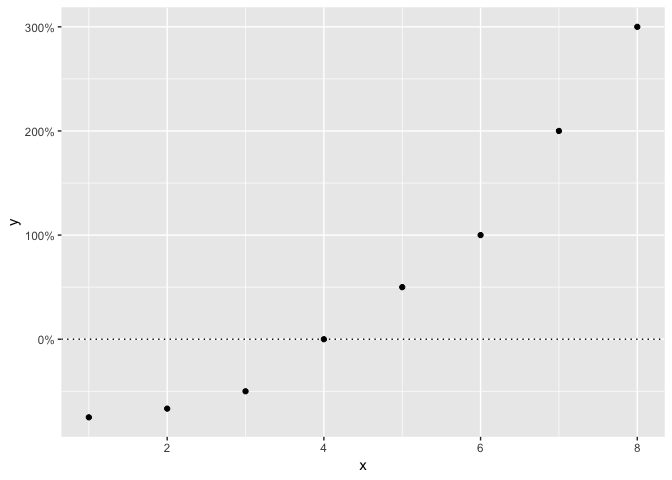
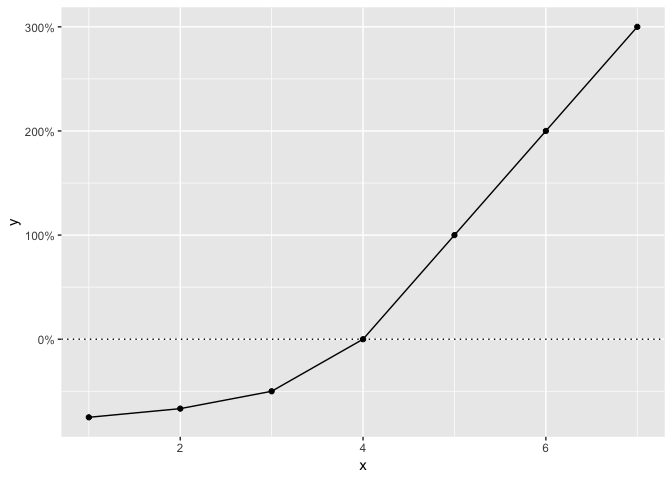
plots

diff --git a/README.md b/README.md
@@ -20,11 +20,12 @@ library(poisplot)
 library(ggplot2)
 library(scales)
 
-data <- data.frame(y = c(-3/4,-2/3,-1/2,0,1/2,1,2,3))
+data <- data.frame(y = c(-3/4,-2/3,-1/2,0,1,2,3))
 data$x <- 1:nrow(data)
 
 gp <- ggplot(data, aes(x = x, y = y)) +
   geom_hline(yintercept = 0, linetype = "dotted") +
+  geom_line() +
   geom_point()
 
 gp + scale_y_continuous(labels = percent)
